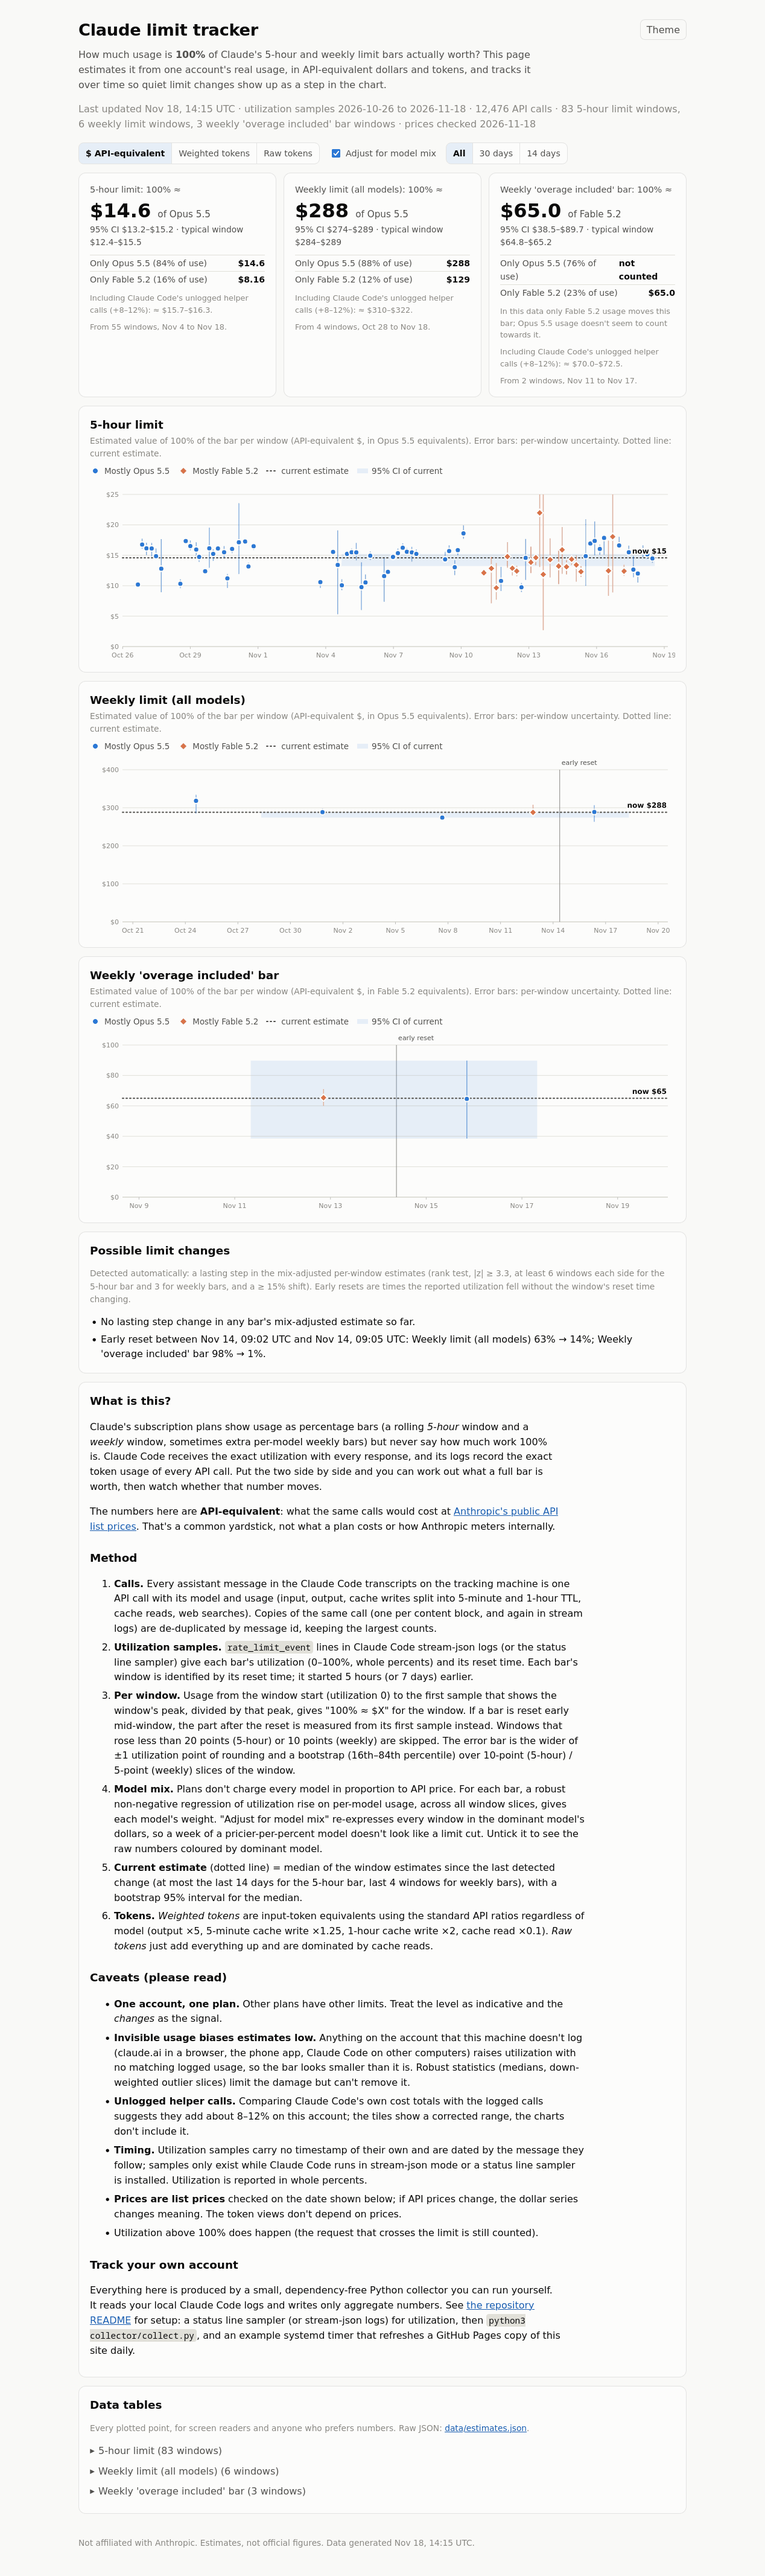
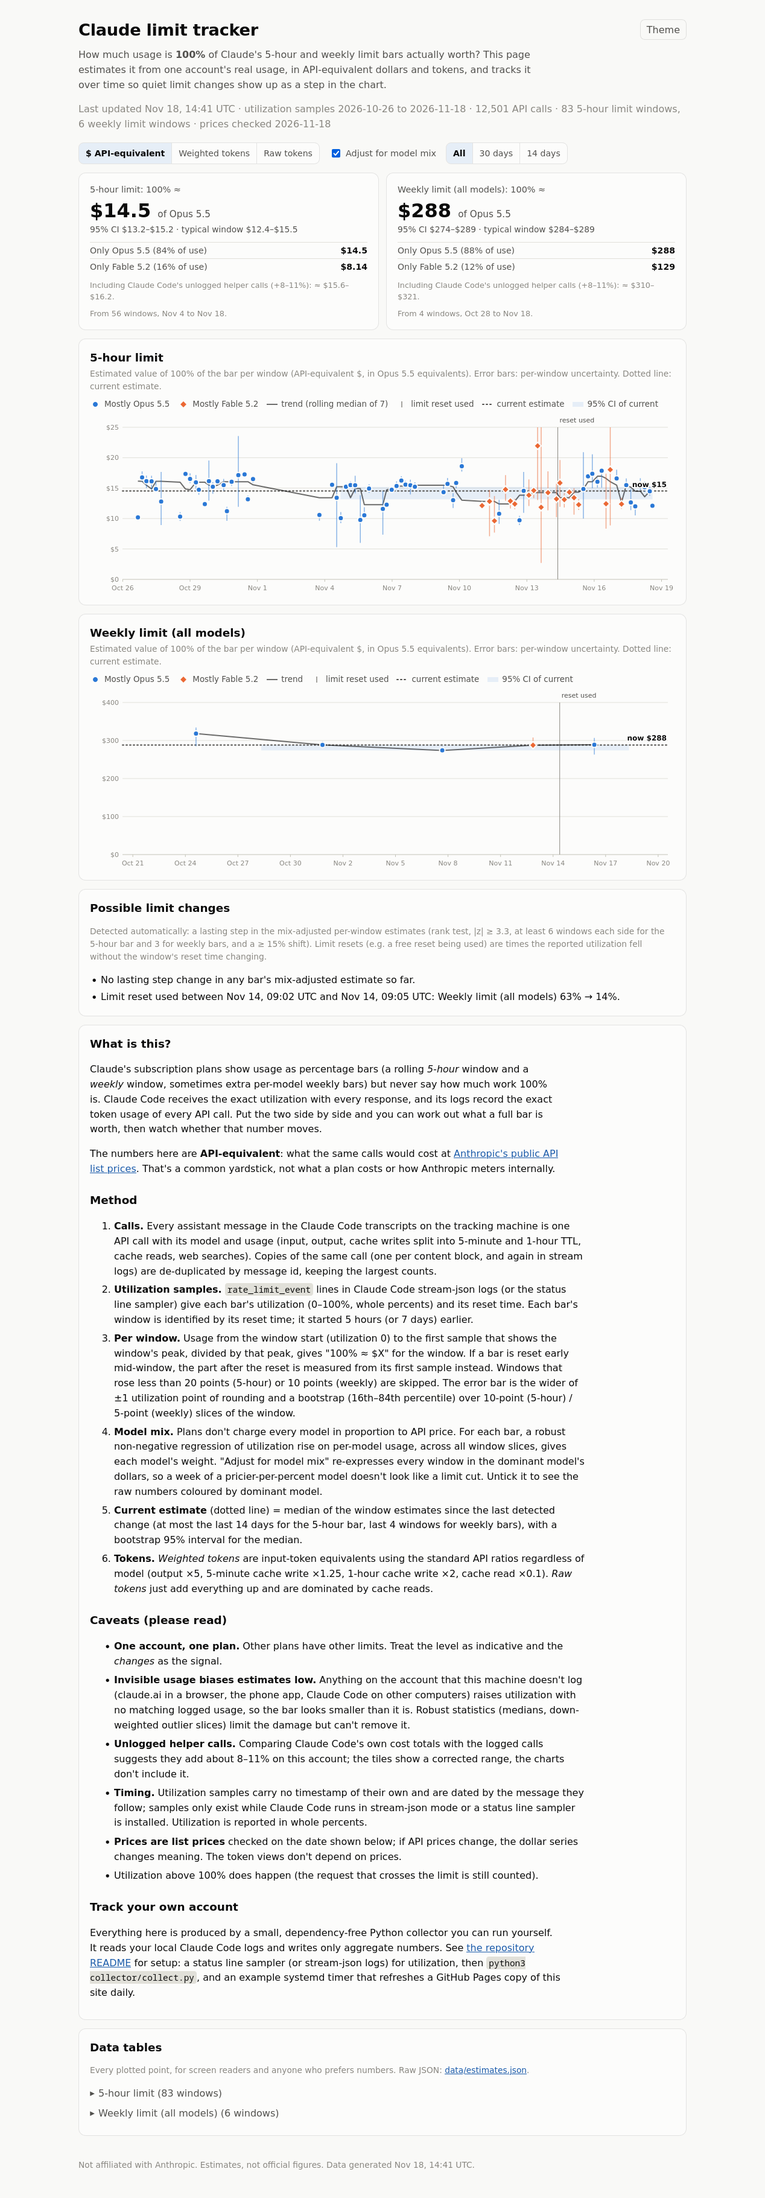
Track only the 5-hour and weekly bars (per-model weekly bars are a fixed share), trend line, reset markers on every chart

diff --git a/docs/app.js b/docs/app.js
@@ -244,11 +244,16 @@
       svg.appendChild(xl);
     }
     // early resets + possible changes
-    var resets = (DATA.events || []).filter(function (e) { return e.bar === bar.key && e.t1 >= x0 && e.t1 <= x1; });
+    // A reset (e.g. a free limit reset being used) applies to the whole account, so mark it on every chart.
+    var resets = [];
+    (DATA.events || []).forEach(function (e) {
+      if (e.t1 < x0 || e.t1 > x1) return;
+      if (!resets.some(function (r) { return Math.abs(r.t1 - e.t1) < 600; })) resets.push(e);
+    });
     resets.forEach(function (e) {
       svg.appendChild(sv("line", { x1: X(e.t1), x2: X(e.t1), y1: m.t, y2: m.t + ph, "class": "rst" }));
       var lb = sv("text", { x: X(e.t1) + 3, y: m.t - 8, "class": "lbl" });
-      lb.textContent = "early reset";
+      lb.textContent = "reset used";
       svg.appendChild(lb);
     });
     (bar.changes || []).forEach(function (ch) {
@@ -266,6 +271,19 @@
       var nl = sv("text", { x: W - m.r - 2, y: Y(cur.median) - 7, "text-anchor": "end", "class": "now-lbl" });
       nl.textContent = "now " + fmt(cur.median, state.unit, true);
       svg.appendChild(nl);
+    }
+    // trend line: rolling median of the window estimates (raw points when there are only a few)
+    if (pts.length > 1) {
+      var half = pts.length >= 15 ? 3 : pts.length >= 7 ? 1 : 0;
+      var vals = pts.map(function (w) { return pointVals(w)[0]; });
+      var dpath = "";
+      pts.forEach(function (w, i) {
+        var nb = vals.slice(Math.max(0, i - half), i + half + 1).sort(function (a, b) { return a - b; });
+        var med = nb.length % 2 ? nb[(nb.length - 1) / 2] : (nb[nb.length / 2 - 1] + nb[nb.length / 2]) / 2;
+        dpath += (i ? "L" : "M") + X(windowX(w)).toFixed(1) + " " + Y(med).toFixed(1);
+      });
+      svg.appendChild(sv("path", { d: dpath, "class": "trend" }));
+      var trendNote = half ? "trend (rolling median of " + (2 * half + 1) + ")" : "trend";
     }
     // error bars then points
     var placed = [];
@@ -302,6 +320,8 @@
       var name = slot === "3" ? "Mostly other models" : "Mostly " + prettyModel(present[slot]);
       legendItem(c.legend, key, name);
     });
+    if (trendNote) legendItem(c.legend, sv("line", { x1: 0, x2: 18, y1: 5, y2: 5, stroke: cssVar("--text-primary"), "stroke-width": 2, "stroke-opacity": 0.6 }), trendNote);
+    if (resets.length) legendItem(c.legend, sv("line", { x1: 9, x2: 9, y1: 0, y2: 10, stroke: cssVar("--muted"), "stroke-width": 1.5 }), "limit reset used");
     if (cur) {
       legendItem(c.legend, sv("line", { x1: 0, x2: 18, y1: 5, y2: 5, stroke: cssVar("--text-secondary"), "stroke-width": 2, "stroke-dasharray": "2 4", "stroke-linecap": "round" }), "current estimate");
       legendItem(c.legend, sv("rect", { x: 0, y: 1, width: 18, height: 8, fill: cssVar("--accent-wash") }), "95% CI of current");
@@ -381,10 +401,10 @@
       g.parts.push(label + " " + pct(e.from) + " → " + pct(e.to));
     });
     groups.forEach(function (g) {
-      items.push({ t: g.t1, text: "Early reset between " + dateTime(g.t0) + " and " + dateTime(g.t1) + ": " + g.parts.join("; ") + "." });
+      items.push({ t: g.t1, text: "Limit reset used between " + dateTime(g.t0) + " and " + dateTime(g.t1) + ": " + g.parts.join("; ") + "." });
     });
     items.sort(function (a, b) { return b.t - a.t; });
-    if (!items.length) items.push({ text: "No step changes or early resets detected yet." });
+    if (!items.length) items.push({ text: "No step changes or limit resets detected yet." });
     var anyChange = Object.keys(DATA.bars).some(function (k) { return (DATA.bars[k].changes || []).length; });
     if (!anyChange) items.unshift({ text: "No lasting step change in any bar's mix-adjusted estimate so far." });
     items.forEach(function (it) { ul.appendChild(el("li", null, it.text)); });

diff --git a/docs/style.css b/docs/style.css
@@ -104,6 +104,7 @@ button { font: inherit; color: inherit; cursor: pointer; }
 .chart .now-lbl { fill: var(--text-primary); font-size: 12px; font-weight: 600; paint-order: stroke; stroke: var(--surface-1); stroke-width: 4px; stroke-linejoin: round; }
 .chart .grid { stroke: var(--grid); stroke-width: 1; }
 .chart .axis { stroke: var(--axis); stroke-width: 1; }
+.chart .trend { stroke: var(--text-primary); stroke-opacity: 0.6; stroke-width: 2; fill: none; stroke-linejoin: round; }
 .chart .err { stroke-width: 1.5; stroke-opacity: 0.55; }
 .chart .now { stroke: var(--text-secondary); stroke-width: 2; stroke-dasharray: 2 4; stroke-linecap: round; fill: none; }
 .chart .band { fill: var(--accent-wash); }

diff --git a/docs/index.html b/docs/index.html
@@ -47,7 +47,7 @@
     <h2>Possible limit changes</h2>
     <p class="muted small">Detected automatically: a lasting step in the mix-adjusted per-window estimates
       (rank test, |z| ≥ 3.3, at least 6 windows each side for the 5-hour bar and 3 for weekly bars, and a ≥ 15% shift).
-      Early resets are times the reported utilization fell without the window's reset time changing.</p>
+      Limit resets (e.g. a free reset being used) are times the reported utilization fell without the window's reset time changing.</p>
     <ul id="changes" class="events"></ul>
   </section>
 

diff --git a/collector/collect.py b/collector/collect.py
@@ -46,6 +46,10 @@ LABELS = {
     "seven_day_overage_included": "Weekly 'overage included' bar",
 }
 
+# Bars that get tracked. Per-model weekly bars (e.g. the Fable "overage included" one) are a fixed share of the
+# weekly limit on claude.ai, so they add nothing; --bars can change this.
+TRACKED_BARS = ("five_hour", "seven_day")
+
 METRICS = ("usd", "wtok", "rawtok")
 # Model-independent "weighted tokens": input-token equivalents using the standard
 # API multipliers (output 5x, 5m cache write 1.25x, 1h cache write 2x, cache read 0.1x).
@@ -799,6 +803,8 @@ def main(argv=None):
     ap.add_argument("--prices", default=os.path.join(HERE, "prices.json"))
     ap.add_argument("--plan", default=os.environ.get("LIMIT_TRACKER_PLAN"),
                     help="optional public plan label shown on the site, e.g. 'Max 20x'")
+    ap.add_argument("--bars", type=lambda v: tuple(x.strip() for x in v.split(",") if x.strip()),
+                    default=TRACKED_BARS, help="comma separated bar keys to track (default: five_hour,seven_day)")
     ap.add_argument("--rebuild", action="store_true",
                     help="recompute every window instead of keeping frozen (closed) windows from the previous run")
     a = ap.parse_args(argv)
@@ -833,7 +839,7 @@ def main(argv=None):
         except ValueError:
             prev = {}
     prev_windows = {}
-    for key, bar in (prev.get("bars") or {}).items():
+    for key, bar in ((k, b) for k, b in (prev.get("bars") or {}).items() if k in a.bars):
         for w in bar.get("windows", []):
             prev_windows[(w["bar"], w["reset"], w["seg"])] = w
     prev_events = prev.get("events") or []
@@ -842,6 +848,8 @@ def main(argv=None):
     events = []
     windows = {}
     for (key, reset), ss in sorted(group_samples(samples).items()):
+        if key not in a.bars:
+            continue
         for w in analyse_window(key, reset, ss, ledger, cover_start, rng, events):
             windows[(w["bar"], w["reset"], w["seg"])] = w
     kept = 0
@@ -860,6 +868,7 @@ def main(argv=None):
     for e in prev_events + events:
         if not any(x["type"] == e["type"] and x["bar"] == e["bar"] and abs(x["t1"] - e["t1"]) < 600 for x in allev):
             allev.append(e)
+    allev = [e for e in allev if e["bar"] in a.bars]
     allev.sort(key=lambda e: e["t1"])
 
     bars = {}
